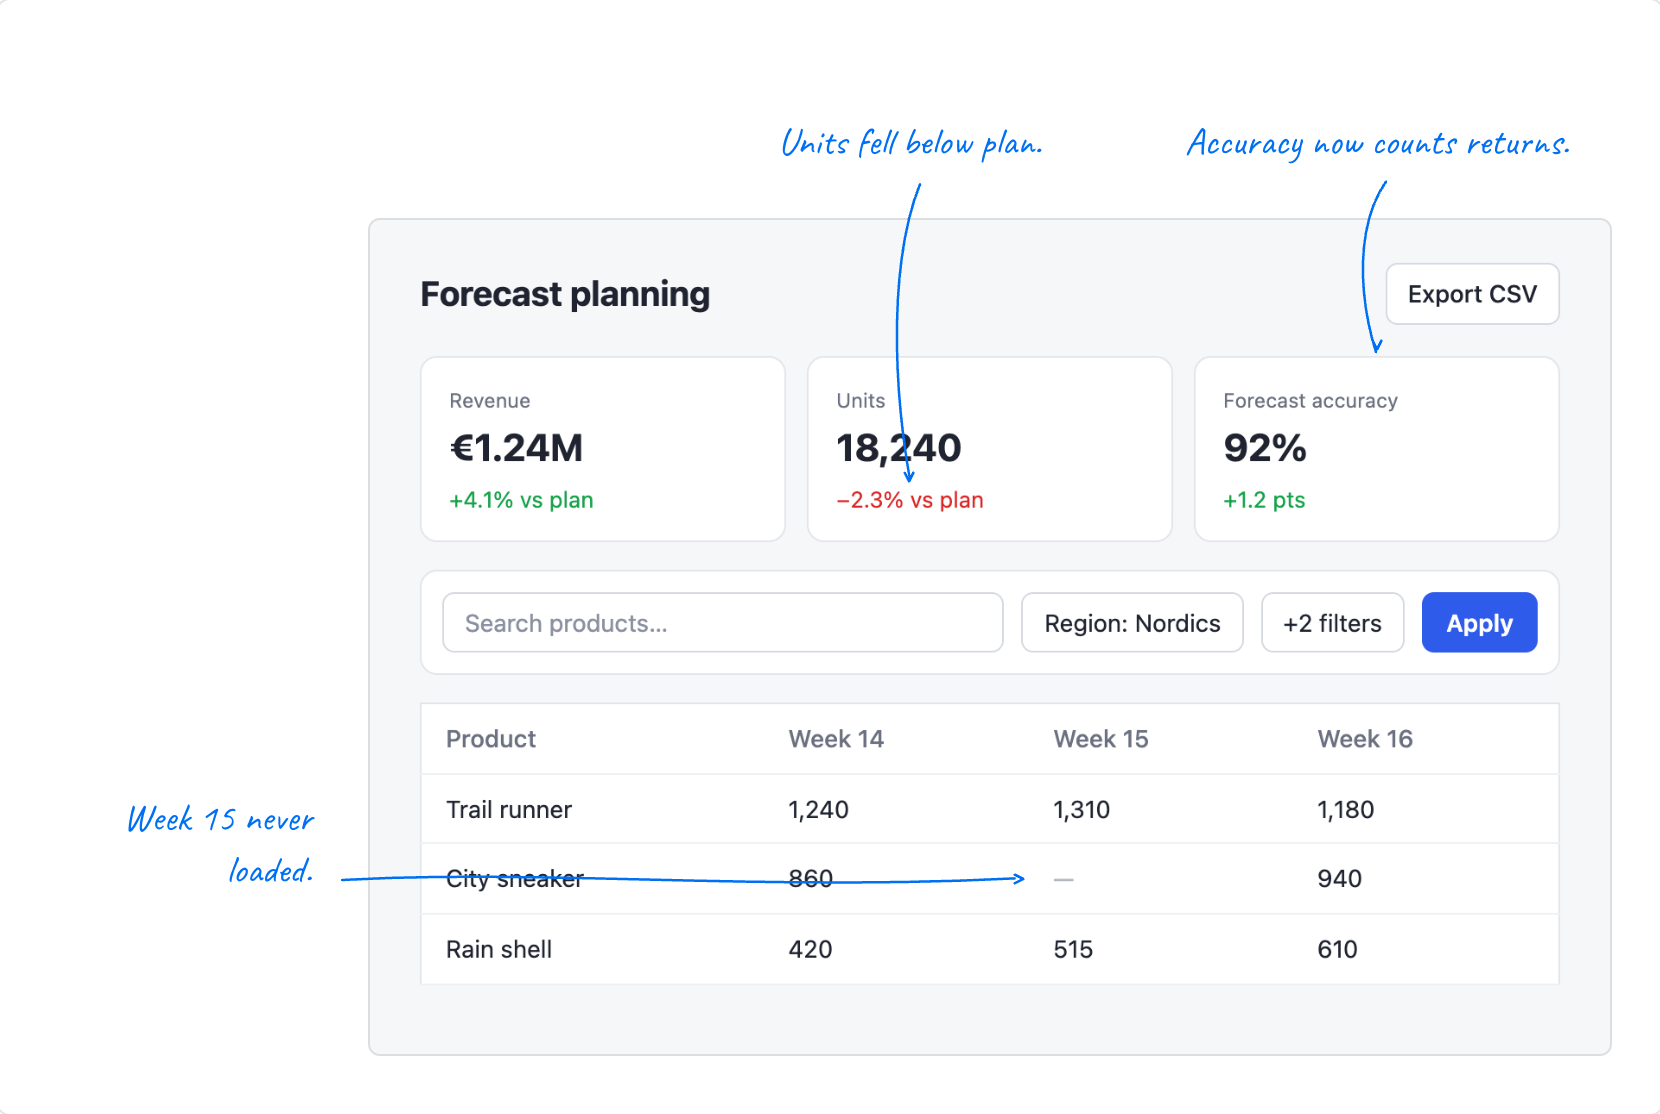
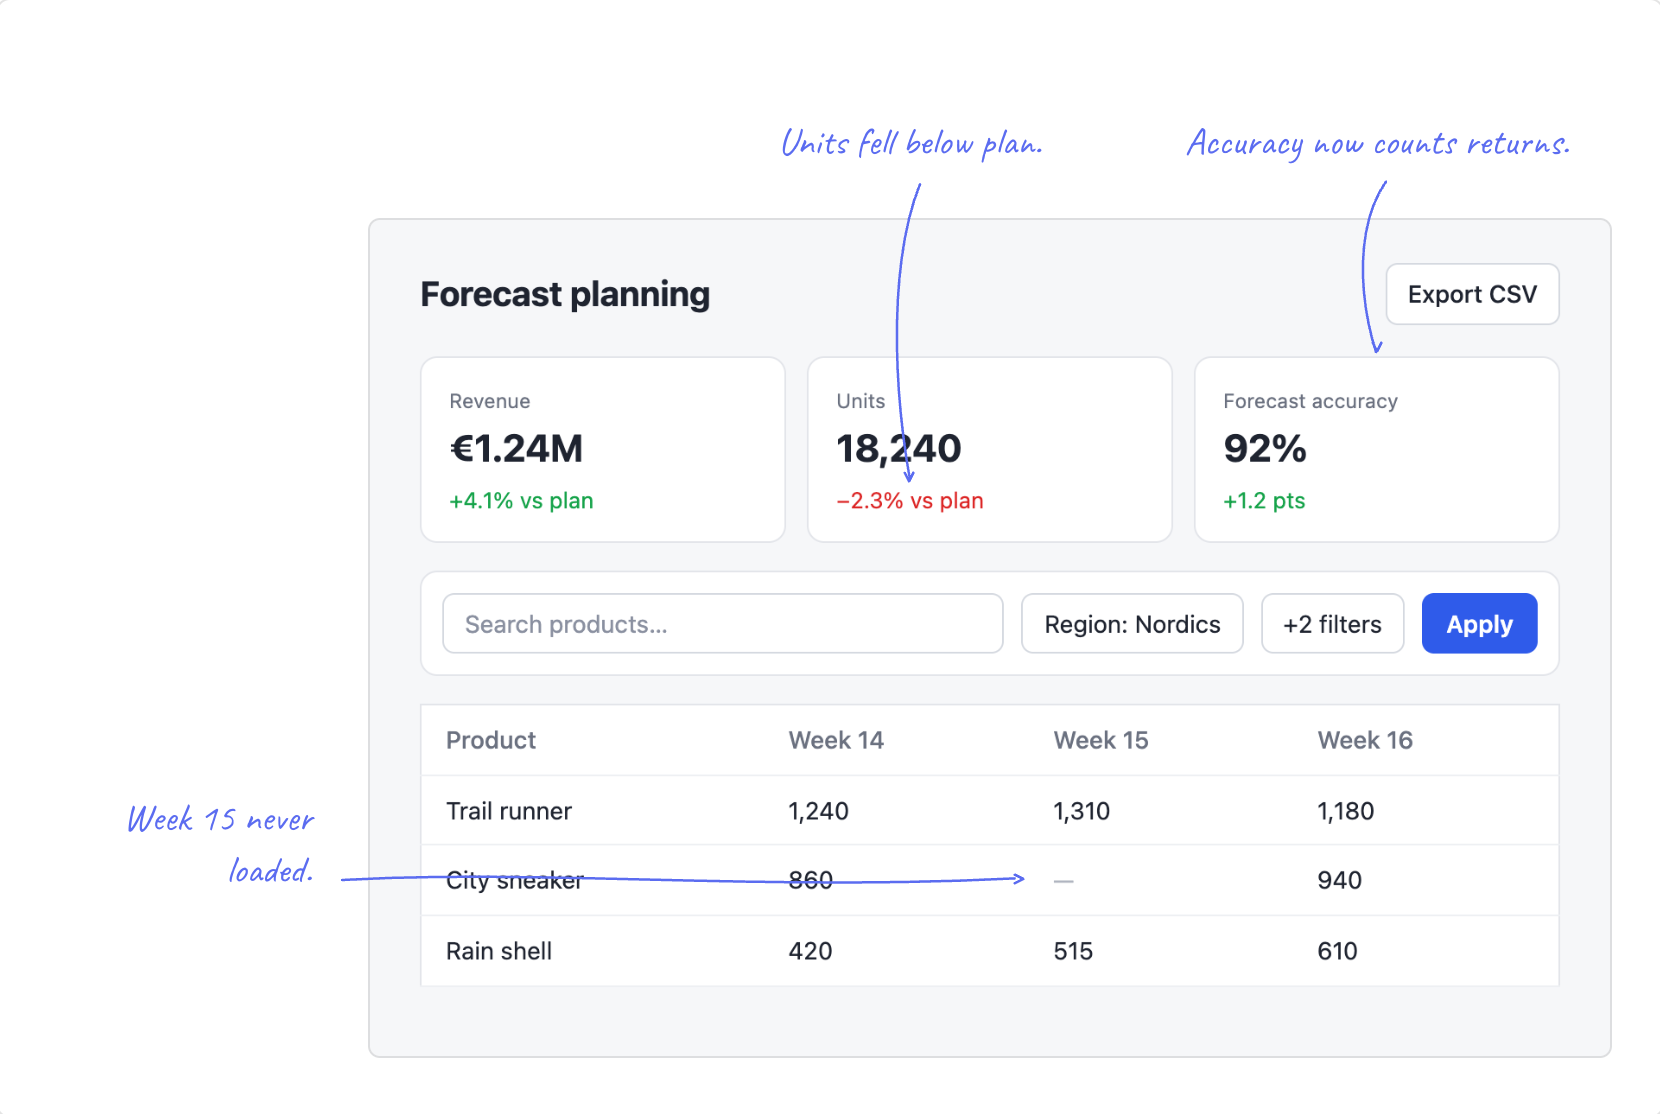
docs: satisfies for install commands, new palette in examples and README screenshot

diff --git a/docs/build.ts b/docs/build.ts
@@ -79,20 +79,20 @@ const body = await renderHtmlFromDocument(document, {
 const github = `<svg viewBox="0 0 16 16" width="16" height="16" aria-hidden="true"><path fill="currentColor" d="M8 0C3.58 0 0 3.58 0 8c0 3.54 2.29 6.53 5.47 7.59.4.07.55-.17.55-.38 0-.19-.01-.82-.01-1.49-2.01.37-2.53-.49-2.69-.94-.09-.23-.48-.94-.82-1.13-.28-.15-.68-.52-.01-.53.63-.01 1.08.58 1.23.82.72 1.21 1.87.87 2.33.66.07-.52.28-.87.51-1.07-1.78-.2-3.64-.89-3.64-3.95 0-.87.31-1.59.82-2.15-.08-.2-.36-1.02.08-2.12 0 0 .67-.21 2.2.82.64-.18 1.32-.27 2-.27.68 0 1.36.09 2 .27 1.53-1.04 2.2-.82 2.2-.82.44 1.1.16 1.92.08 2.12.51.56.82 1.27.82 2.15 0 3.07-1.87 3.75-3.65 3.95.29.25.54.73.54 1.48 0 1.07-.01 1.93-.01 2.2 0 .21.15.46.55.38A8.013 8.013 0 0016 8c0-4.42-3.58-8-8-8z"/></svg>`;
 // Humans install the package with their package manager; agents install the skill from this site.
 const packages = install.replace(/^pnpm add /, "");
-const commands: Record<string, string> = {
+const commands = {
   pnpm: `pnpm add ${packages}`,
   npm: `npm install ${packages}`,
   yarn: `yarn add ${packages}`,
   bun: `bun add ${packages}`,
   agents: "npx skills add https://comark-annotate.onmax.me",
-};
+} satisfies Record<string, string>;
 const userIcon = `<svg viewBox="0 0 24 24" width="14" height="14" aria-hidden="true"><path fill="none" stroke="currentColor" stroke-width="2" stroke-linecap="round" d="M19 21v-2a4 4 0 0 0-4-4H9a4 4 0 0 0-4 4v2M12 11a4 4 0 1 0 0-8 4 4 0 0 0 0 8"/></svg>`;
 const botIcon = `<svg viewBox="0 0 24 24" width="14" height="14" aria-hidden="true"><path fill="none" stroke="currentColor" stroke-width="2" stroke-linecap="round" stroke-linejoin="round" d="M12 8V4H8M4 8h16v12H4zM2 14h2M20 14h2M15 13v2M9 13v2"/></svg>`;
 const copyIcon = `<svg viewBox="0 0 24 24" width="15" height="15" aria-hidden="true"><path fill="none" stroke="currentColor" stroke-width="2" stroke-linecap="round" stroke-linejoin="round" d="M8 8h12v12H8zM16 8V4H4v12h4"/></svg>`;
 const installer = `<div class="installer" data-commands='${escapeHtml(JSON.stringify(commands))}'>
 <div class="installer-bar"><div class="seg" role="group" aria-label="Audience"><button type="button" data-audience="humans" aria-pressed="true">${userIcon}For humans</button><button type="button" data-audience="agents" aria-pressed="false">${botIcon}For agents</button></div>
 <div class="seg installer-pm" role="group" aria-label="Package manager">${["pnpm", "npm", "yarn", "bun"].map((pm, i) => `<button type="button" data-pm="${pm}" aria-pressed="${i === 0}">${pm}</button>`).join("")}</div></div>
-<button type="button" class="install" data-copy="${escapeHtml(commands.pnpm ?? "")}" aria-label="Copy the install command"><span aria-hidden="true">$</span><code>${escapeHtml(commands.pnpm ?? "")}</code><span class="install-hint">${copyIcon}</span></button>
+<button type="button" class="install" data-copy="${escapeHtml(commands.pnpm)}" aria-label="Copy the install command"><span aria-hidden="true">$</span><code>${escapeHtml(commands.pnpm)}</code><span class="install-hint">${copyIcon}</span></button>
 </div>`;
 const npmx = `<svg viewBox="0 0 153 153" width="16" height="16" aria-hidden="true"><path fill="currentColor" d="M17.6 107.2h24.1v23.7h-24zM119.8.8 116.2 11 69.9 142l-3.6 10.2h15.5l3.6-10.2 11.7-33.2L135.4.8z"/></svg>`;
 const logo = `<span class="logo" aria-hidden="true">1</span>`;

diff --git a/docs/style.css b/docs/style.css
@@ -261,7 +261,9 @@ body {
   height: 2rem;
   border-radius: 999px;
   color: var(--muted);
-  transition: color 150ms ease, background-color 150ms ease;
+  transition:
+    color 150ms ease,
+    background-color 150ms ease;
 }
 
 .install:hover .install-hint {

diff --git a/docs/index.md b/docs/index.md
@@ -166,7 +166,7 @@ Accuracy now counts returns.
 | `x` `y` `w` `h` | The marked area, as percentages of the image from 0 to 100. |
 | `mark` | `box` (default), `circle`, `underline`, `highlight`, `cross`, `check`, or `none` to let an arrow do the pointing. |
 | `side` | `left`, `right`, or `top` puts the note beside or above the image with an arrow. |
-| `color` | `blue` (default) points something out, `red` flags a problem, `amber` a warning, `green` a fix, `gray` anything neutral. Each has a dark-mode value. Any hex color like `#e5484d` works too. |
+| `color` | `blue` (default) points something out, `red` flags a problem, `amber` a warning, `green` a fix, `gray` anything neutral. Each has a dark-mode value. Any hex color like `#e11d48` works too. |
 
 ### compare
 
